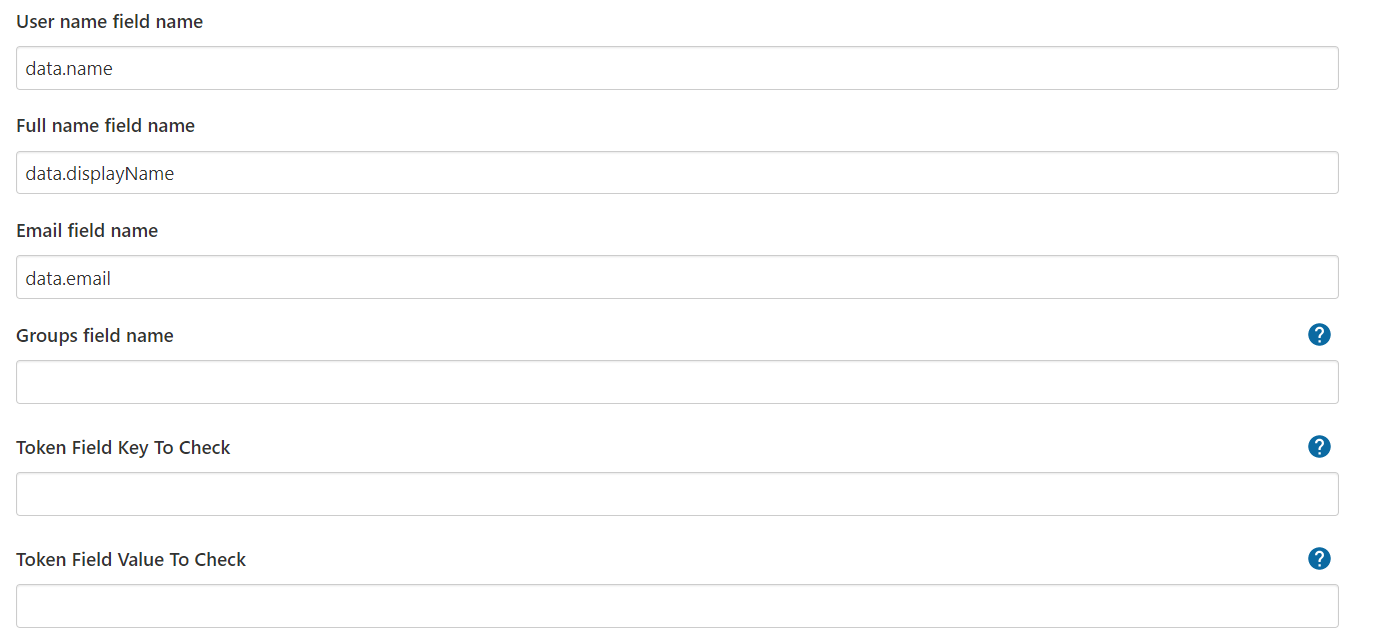
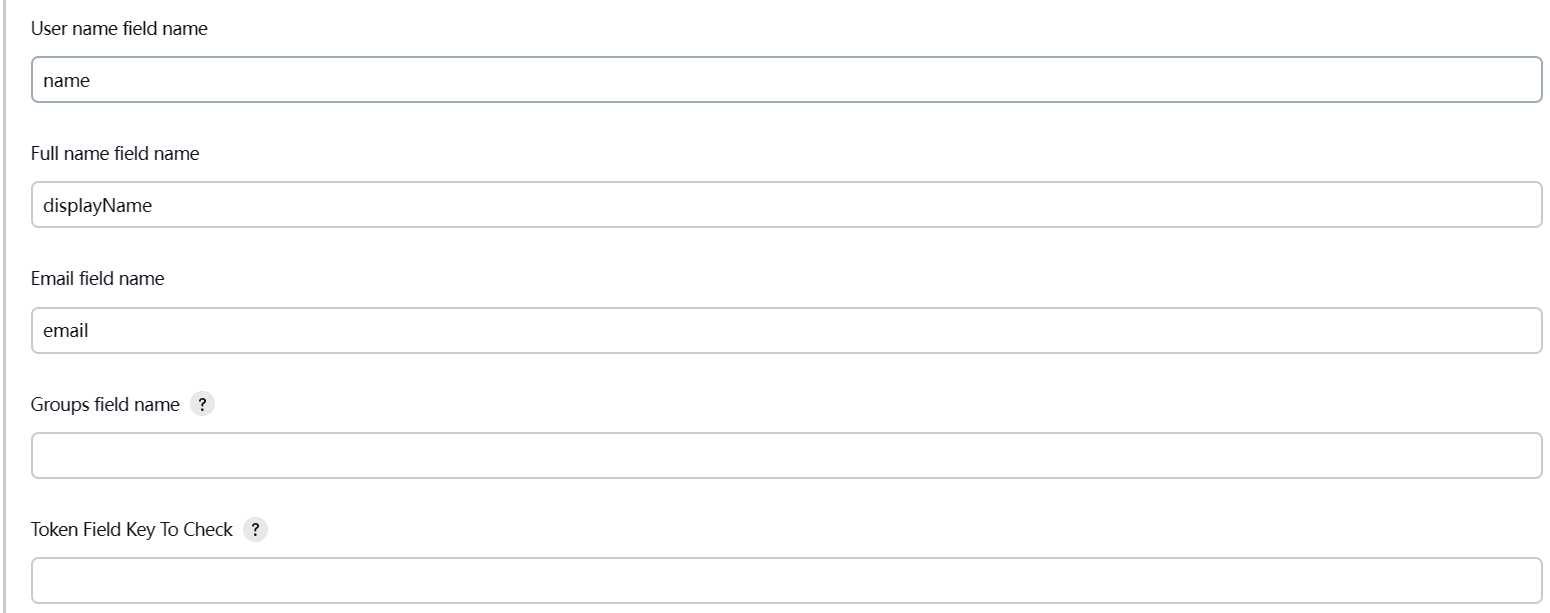
docs: update jenkins oidc (#428)

diff --git a/docs/integration/java/jenkins oidc.md b/docs/integration/java/jenkins oidc.md
@@ -38,27 +38,33 @@ Open your favorite browser and visit: **http://`CASDOOR_HOSTNAME`/.well-known/op
 
 ## Step3. Configure Jenkins
 
-Jenkins does not natively support OIDC, so we need to install [OpenId Connect Authentication](https://plugins.jenkins.io/oic-auth/).
+First, we need to install [OpenId Connect Authentication](https://plugins.jenkins.io/oic-auth/), Jenkins does not natively support OIDC.
 
-After completing the installation, go to Manage Jenkins -> Configure Global Security.
+After completing the installation, go to **Manage Jenkins** -> **Configure Global Security**.
+![jenkins global security](/img/integration/java/jenkins-oidc/jenkins_global_security.png)
 
-**Suggestion**: Back up the Jenkins `config.xml` file, and use it to recover in case of setup errors.
+:::tip
+Back up the Jenkins `config.xml` file, and use it to recover in case of setup errors.
+:::
 
-1. In Access Control, Security Realm select "Login with Openid Connect".
+1. In Access Control, **Security Realm** select `Login with Openid Connect`.
 2. In Client ID, specify the `Client ID` noted above.
 3. In Client secret, specify the `Client secret` noted above.
-4. In Configuration mode, select `Automatic configuration` and fill in **http://`CASDOOR_HOSTNAME`/.well-known/openid-configuration** into Well-known configuration endpoint.![Jenkins' Setting](/img/integration/java/jenkins-oidc/jenkins_auto.png)If your casdoor is deployed locally, you may need to select `Manual configuration` and input some information:
-    - `Token server url`: **http://`CASDOOR_HOSTNAME`/api/login/oauth/access_token**
-    - `Authorization server url`: **http://`CASDOOR_HOSTNAME`/login/oauth/authorize**
-    - `UserInfo server url`: **http://`CASDOOR_HOSTNAME`/api/get-account**
-    - `Scopes`: `address phone openid profile offline_access email`
-    ![Manual configuration](/img/integration/java/jenkins-oidc/jenkins_manual.png)
-5. Click Advanced setting, fill in the following:
-    - In User name field, specify `data.name`
-    - In Full name field, specify `data.displayName`
-    - In Email field, specify `data.email`
-    ![Userinfo Field Setting](/img/integration/java/jenkins-oidc/jenkins_field.png)
-6. In the Authorization section, check “Logged-in users can do anything”. Disable “Allow anonymous read access”. You can configure more complex authorization later, for now check if OpenID actually works.
+4. In Configuration mode, select `Automatic configuration` and fill in **http://`CASDOOR_HOSTNAME`/.well-known/openid-configuration** into Well-known configuration endpoint.![Jenkins' Setting](/img/integration/java/jenkins-oidc/jenkins_auto.png)
+
+If your casdoor is deployed locally, you may need to select `Manual configuration` and input some information:
+- Token server url: **http://`CASDOOR_HOSTNAME`/api/login/oauth/access_token**
+- Authorization server url: **http://`CASDOOR_HOSTNAME`/login/oauth/authorize**
+- UserInfo server url: **http://`CASDOOR_HOSTNAME`/api/get-account**
+- Scopes: `address phone openid profile offline_access email`
+![Manual configuration](/img/integration/java/jenkins-oidc/jenkins_manual.png)
+5. Click **Advanced setting**, fill in the following:
+- In User name field, specify `name`
+- In Full name field, specify `displayName`
+- In Email field, specify `email`
+![Userinfo Field Setting](/img/integration/java/jenkins-oidc/jenkins_field.png)
+
+6. In the **Authorization** section, check “Logged-in users can do anything”. Disable “Allow anonymous read access”. You can configure more complex authorization later, for now check if OpenID actually works.
 
 Log out of Jenkins, it should now redirect you to Casdoor for authentication.
 ![Jenkins Login Page](/img/integration/java/jenkins-oidc/jenkins_login.png)
